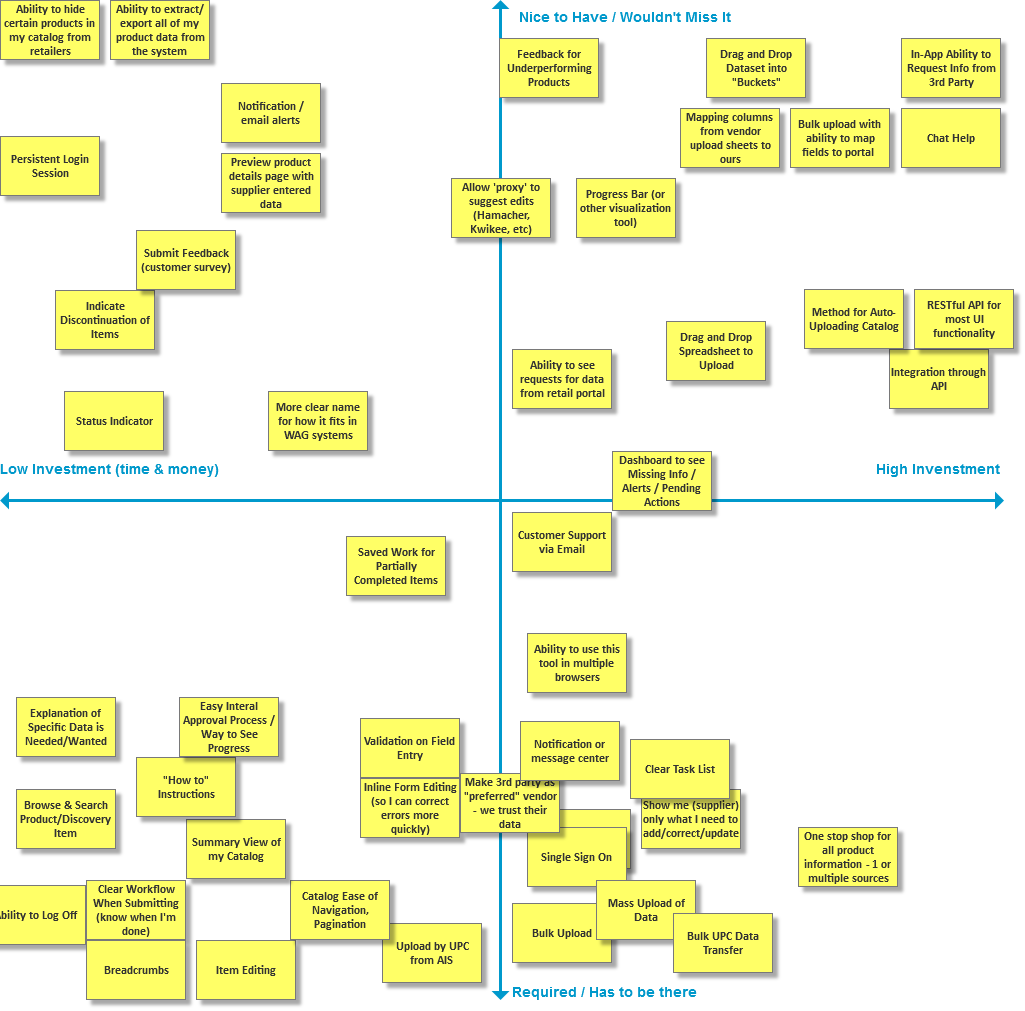
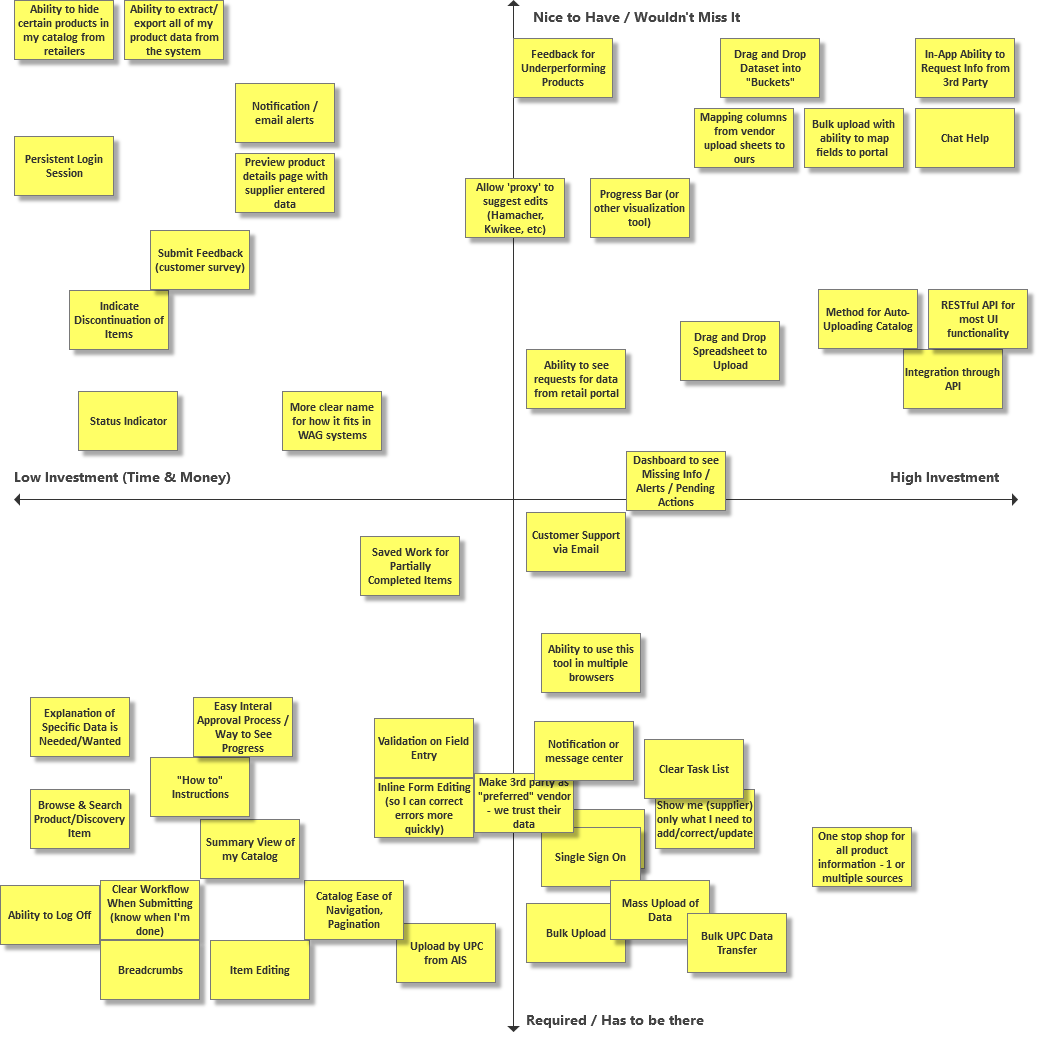
Updates for merch project.

diff --git a/site/digital-merchandising-application.html b/site/digital-merchandising-application.html
@@ -189,13 +189,13 @@
 
             </div><!--End #menu-panel-->
 
-			
+            
             <!-- Main Content Wrap -->
-    		<div id="wrap">
+            <div id="wrap">
 
                 <!-- Main Content : List, text content ... -->
-    	        <div id="content">
-    		        
+                <div id="content">
+                    
                     <div class="page type-page status-publish hentry piece-details">
 
                         <div class="content_wrap_outer fullwrap-layout">
@@ -213,75 +213,97 @@
                                 </section>
                                 <div class="container post type-post format-standard">
                                     <div class="entry">
-                                        <h2>Introduction</h2>
-                                        <p>This project is a story about the behind-the-scenes of retail. As consumers, online shopping opens us up to a huge and varied world of retail, and a multitude of product data.  But where does all that product data – all those images and descriptions you see on a product’s webpage - come from? How does a large vendor, such as Unilever, distribute their product data to the huge array of retailers who sell their merchandise? And what can we do, as designers, when called to make this exchange as simple and pleasant as possible?</p>
-                                        <p>In 2017, the company I work for sought to release their first externally facing application for digital item setup. Coming from a completely manual process, this project was an opportunity to remove many user pain points while promoting positive business relationships between the company and their external vendor partners. </p>
+                                        <h2>Project Description</h2>
+<!--                                         <p>This project is a story about the behind-the-scenes of retail. As consumers, online shopping opens us up to a huge and varied world of retail, and a multitude of product data.  But where does all that product data – all those images and descriptions you see on a product’s webpage - come from? How does a large vendor, such as Unilever, distribute their product data to the huge array of retailers who sell their merchandise? And what can we do, as designers, when called to make this exchange as simple and pleasant as possible?</p> -->
+                                        <p>In 2017, the company sought to release their first vendor-facing item setup application for online retail. Coming from a completely manual process, this project was an opportunity to remove many user pain points while promoting positive business relationships between the company and their external vendor partners.</p>
                                     </div>
                                 </div>
                                 <div class="container post type-post format-standard">
                                     <div class="entry">
                                         <h2>My Role</h2>
-                                        <p>I was responsible for the user research and full design of the application. I produced all design deliverables and ultimately a prototype of the application built on Bootstrap. I also contributed additional artifacts such as training materials, user guides, and email copy. I worked closely with key stakeholders to fully realize their business and pain points, and presented my ideas and prototype to stakeholders on different teams. I worked with a remote but in-house development team to realize the product vision.</p>
+                                        <p>I was responsible for the user research and full design of the application. I produced all design deliverables and ultimately a prototype of the application built on Bootstrap. I also contributed additional artifacts such as training materials, user guides, and email copy. I worked closely with key stakeholders to understand their business process and pain points, and presented my ideas and prototype to stakeholders on different teams. I worked with a remote but in-house development team to realize the product vision.</p>
                                     </div>
                                 </div>
                                 <div class="container post type-post format-standard">
                                     <div class="entry">
                                         <h2>Definitions</h2>
-                                        <strong>Digital Merchandising Team:</strong>
-                                        <p>The internal team plans and manages what products are sold on the retail site. This includes the Merchandising Operations team (MerchOps), who is responsible for item setup. In this case study, I will refer to members of this team as Merchants. This group is not a direct end user of the product, but are users within the overarching system the product belongs to.</p>
-                                        <strong>Vendors: </strong>
-                                        <p>External partners, such as L’Oreal, Unilever, and Johnson &amp; Johnson, whose products are sold on the retail site. I will refer to these individuals as vendors or vendor partners. This group is the end user of </p>
+                                        <h5>Digital Merchandising Team</h5>
+                                        <p>The internal team that plans and manages what products are sold on the retail site. This includes the Merchandising Operations team (MerchOps), who is responsible for item setup.</p>
+                                        <h5>Vendors</h5>
+                                        <p>The companies who make the products that are sold on the retail site. Examples are Unilever, Proctor &amp; Gamble, and Johnson &amp; Johnson. I will refer to these individuals as vendors or vendor partners. This group is the end user of the product.</p>
+                                        <h5>Digital Assets</h5>
+                                        <p>Product data, such as images, descriptions, ingredients, and marketing copy. This data is used to setup the product for the retail site, and includes both customer facing data and data used for internal setup and ID generation. This is the information the MerchOps team needs from vendors to put products online.</p>
+                                        <div class="single-image">
+                                            <img src="./img/merchandising-app/product-list-page-example.png" />
+                                            <p class="small">ABOVE: Example of a product list page. The text and (placeholder) image are all examples of product data needed from the vendor by merch ops.</p>         
+                                        </div><!--End inside-->
+                                        <!-- </section> -->
+                                    </div>
+                                </div>
+                                <div class="container post type-post format-standard">
+                                    <div class="entry">
+                                        <h2>The Challenge</h2>
+                                        <p>Designing for a business process that was well established but entirely manual was a challenge to evaluate. Since there was nothing to “see”, it was necessary for me to collaborate closely with the merchandising team, carefully documenting their processes and digging into various leads until I could visualize their very complicated world and become an expert on the not-yet-existing product.</p>
+                                        <p>From there, it was my responsibility to fully design the front end of the application, including all the information architecture, various workflows, and interactions. These responsibilities were taken while guiding stakeholders who were not accustom to working with a designer through the user experience design process.</p>
                                     </div>
                                 </div>
                                 <div class="container post type-post format-standard">
                                     <div class="entry">
                                         <h2>Discovery</h2>
-                                        <h5>Brainstorming with the Development Team</h5>
-                                        <p>While I was new to the merchandising world at the start of this project, the development team was not. Since everyone had ideas on what features to include, I decided the fastest way to get everyone on the same page and learn about the project was to hold a few workshop sessions. I flew to Washington, where the development team is located, and spent a week leading design workshops, ideating with the developers, and sketching out possible user flows.</p>
-                                        <h5>Studying the Merchandising Process</h5>
-                                        <p>Upon returning from Washington, I had enough contexts to start asking specific questions of the business stakeholder. It was then I started to understand the nuances of the manual process. 
-                                        I found that product data was being exchanged between merchants and vendors through a system of emails, spreadsheets, and FTPs. Due to a prerequisite on the brick and mortar side, vendors were required to go through certain third parties to have their product data created.
-                                        </p>
-                                        <p>I documented these findings in the form of flow charts, which I shared with the development team.</p>
-                                        <p>It was important to communicate these processes because the business saw the project through their lens, and the developers through theirs (naturally). I worked to bridge these perspectives and create a feeling of cohesive goals.</p>
-                                        <h5>Understanding End Users</h5>
-                                        <p>Since we were starting from scratch, there was no existing user data to go off of. Considering that the merchandising team and the vendors are equal partners in this process, I relied on the merchandising team’s pain points to make inferences about usability problems in the current process. For example, if we were having difficulty getting accurate ingredients lists from vendors, I would ask myself, why would this be? Perhaps the format we’re asking for ingredients in is difficult to follow, or maybe we aren’t making it clear that we need ingredients provided for certain products. I took the perspective that everything we need from vendors they would be happy to provide, quickly and accurately, because after all, they also have a stake in their products being successful on the website. I focused on how we could communicate our requirements to vendors in a way that enabled them to give us the data we needed.</p>
-                                    </div>
-                                </div>
-                                <div class="container post type-post format-standard">
-                                    <div class="entry">
-                                        <h2>Analysis</h2>
-                                        <h5>Business Flows Documentation</h5>
-                                        <p>flow screenshot</p>
-                                        <h5>Features Defintion</h5>
-                                        <p>site map</p>
-                                        <h5>End to End Process</h5>
-                                        <p>explanation of how the app will fit into existing ecosystem</p>
+                                        <h5>UX Workshops</h5>
+                                        <p>While I was new to the merchandising world at the start of this project, the development team was not. Since everyone had ideas on what features to include, the fastest way to get everyone on the same page and learn about the project was to hold a few workshop sessions. I flew to where the development team is located and spent a week leading design workshops, ideating with the developers, and sketching out possible user flows.</p>
+                                        <div class="single-image">
+                                            <img src="./img/merchandising-app/kano_model.png" />
+                                            <p class="small">ABOVE: Artifact from Kano Model workshop, which plots features against necessity and cost. The Kano model was created as a group using a large poster board and sticker notes. A digital copy was created afterwards in Axure.</p>         
+                                        </div>
+                                        <h5>Stakeholder Interviews</h5>
+                                        <p>After the workshop sessions, I had enough context to start asking specific questions of the business stakeholders. I interviewed numerous members of the merchandising &amp; MerchOps teams. I found that product data was being exchanged between MerchOps and vendors through a manual process of emails, spreadsheets, and FTPs. I documented the different workflows in the form of annotated flow charts.</p>
                                     </div>
                                 </div>
                                 <div class="container post type-post format-standard">
                                     <div class="entry">
                                         <h2>Design</h2>
-                                        <h5>Wireframing</h5>
-                                        <p>wireframes</p>
+                                        <p>I started translating the requirements I'd gathered into low fidelity sketches and wireframes. I iterated on different versions of the site map, trying to determine the best structure for the application. I presented my work to the business and development team frequently to ensure I was fully capturing the requirements while staying technically feasible.</p>
+                                        <div class="single-image">
+                                            <img src="./img/merchandising-app/ship-samples-wires-old.png" />
+                                            <p class="small">ABOVE: Some original draft wires depicting an item setup table with a tabbed layout and "Ship Samples" as a table action.</p>         
+                                        </div>
                                         <h5>Prototype</h5>
-                                        <p>prototype screenshots</p>
+                                        <p>To used Bootstrap to create the high fidelity designs. I choose to do this for a few different reasons:</p>
+                                        <ul>
+                                            <li>Coding the designs was the easiest way to apply the style guide specified in the Bootstrap theme</li>
+                                            <li>Minimal ambiguity on the visual design</li>
+                                            <li>The developers were able to take my code and create components in React.js, which was ultimately very efficient</li>
+                                            <li>A functional prototype was needed for usability testing</li>
+                                        </ul>
                                         <h5>Usability Testing</h5>
-                                        <p></p>
-                                    </div>
-                                </div>
-                                <div class="container post type-post format-standard">
-                                    <div class="entry">
-                                        <h2>Launch Preparation</h2>
-                                        <h5>Creating Training Decks &amp; User Guides</h5>
-                                        
+                                        <p>I worked with the merchandising team to invite a handful of select vendors to come on-site to test the prototype. We had a total of 18 participants across 10 vendor companies. Each of the participants tested the prototype in our usability lab with a member of our user research team. Because of the complex nature of the merchandising world and the business implications surrounding the application, I was also present during testing to take notes and answer any non-usability related questions.</p>
+                                        <h5>Final Design</h5>
+                                        <p>Feedback was incorporated into the designs and I worked on creating designs for the remaining screens. In addition to the prototype, additional static comps were created on an as-needed basis to describe business rules and interactions.</p>
+                                        <div class="single-image">
+                                            <img src="./img/merchandising-app/dashboard.png" />    
+                                        </div>
+                                        <div class="single-image">
+                                            <img src="./img/merchandising-app/item-setup.png" />    
+                                        </div>
+                                        <div class="single-image">
+                                            <img src="./img/merchandising-app/images.png" />    
+                                        </div>
+                                        <div class="single-image">
+                                            <img src="./img/merchandising-app/ship-samples.png" />    
+                                        </div>
                                     </div>
                                 </div>
                                  <div class="container post type-post format-standard">
                                     <div class="entry">
                                         <h2>Next Steps</h2>
-
-                                        
+                                        <p>The application launches late summer of 2017. After the initial launch, we plan to iterate the designs based on user feedback and to explore implementation of features requested during usability testing, such as:</p>
+                                        <ul>
+                                            <li>Functionality for vendors to manage the full range of their products sold on our retail site</li>
+                                            <li>Further build out the internal facing application to support business vendor partnership</li>
+                                            <li>Dashboards and reports for managing product sales and popularity</li>
+                                            <li>UI for merchandising team to set image requirements at the product type level</li>
+                                        </ul>
                                     </div>
                                 </div>
                                 <div class="container post type-post format-standard">
@@ -327,9 +349,9 @@
                 </footer>
 
             </div><!--End #wrap -->  
-	       
+           
            <div class="video-overlay modal"><span class="video-close"></span></div><!--end video-overlay-->
-	  
+      
         </div><!--End wrap-outer-->
 
         <div class="pswp" tabindex="-1" role="dialog" aria-hidden="true">

diff --git a/site/css/custom.css b/site/css/custom.css
@@ -126,8 +126,25 @@
     margin-bottom: 20px;
 }
 
+.piece-details .container h2 {
+	margin: 40px 0 10px;
+}
+
+.single-image {
+	margin: 50px 0;
+}
+
+.single-image .small {
+	margin-top: 25px;
+}
+
+.small {
+	font-size: 12px;
+}
+
 @media screen and (min-width: 1100px) {
     .piece-details .container {
         width: 50%;
     }
 }
+
